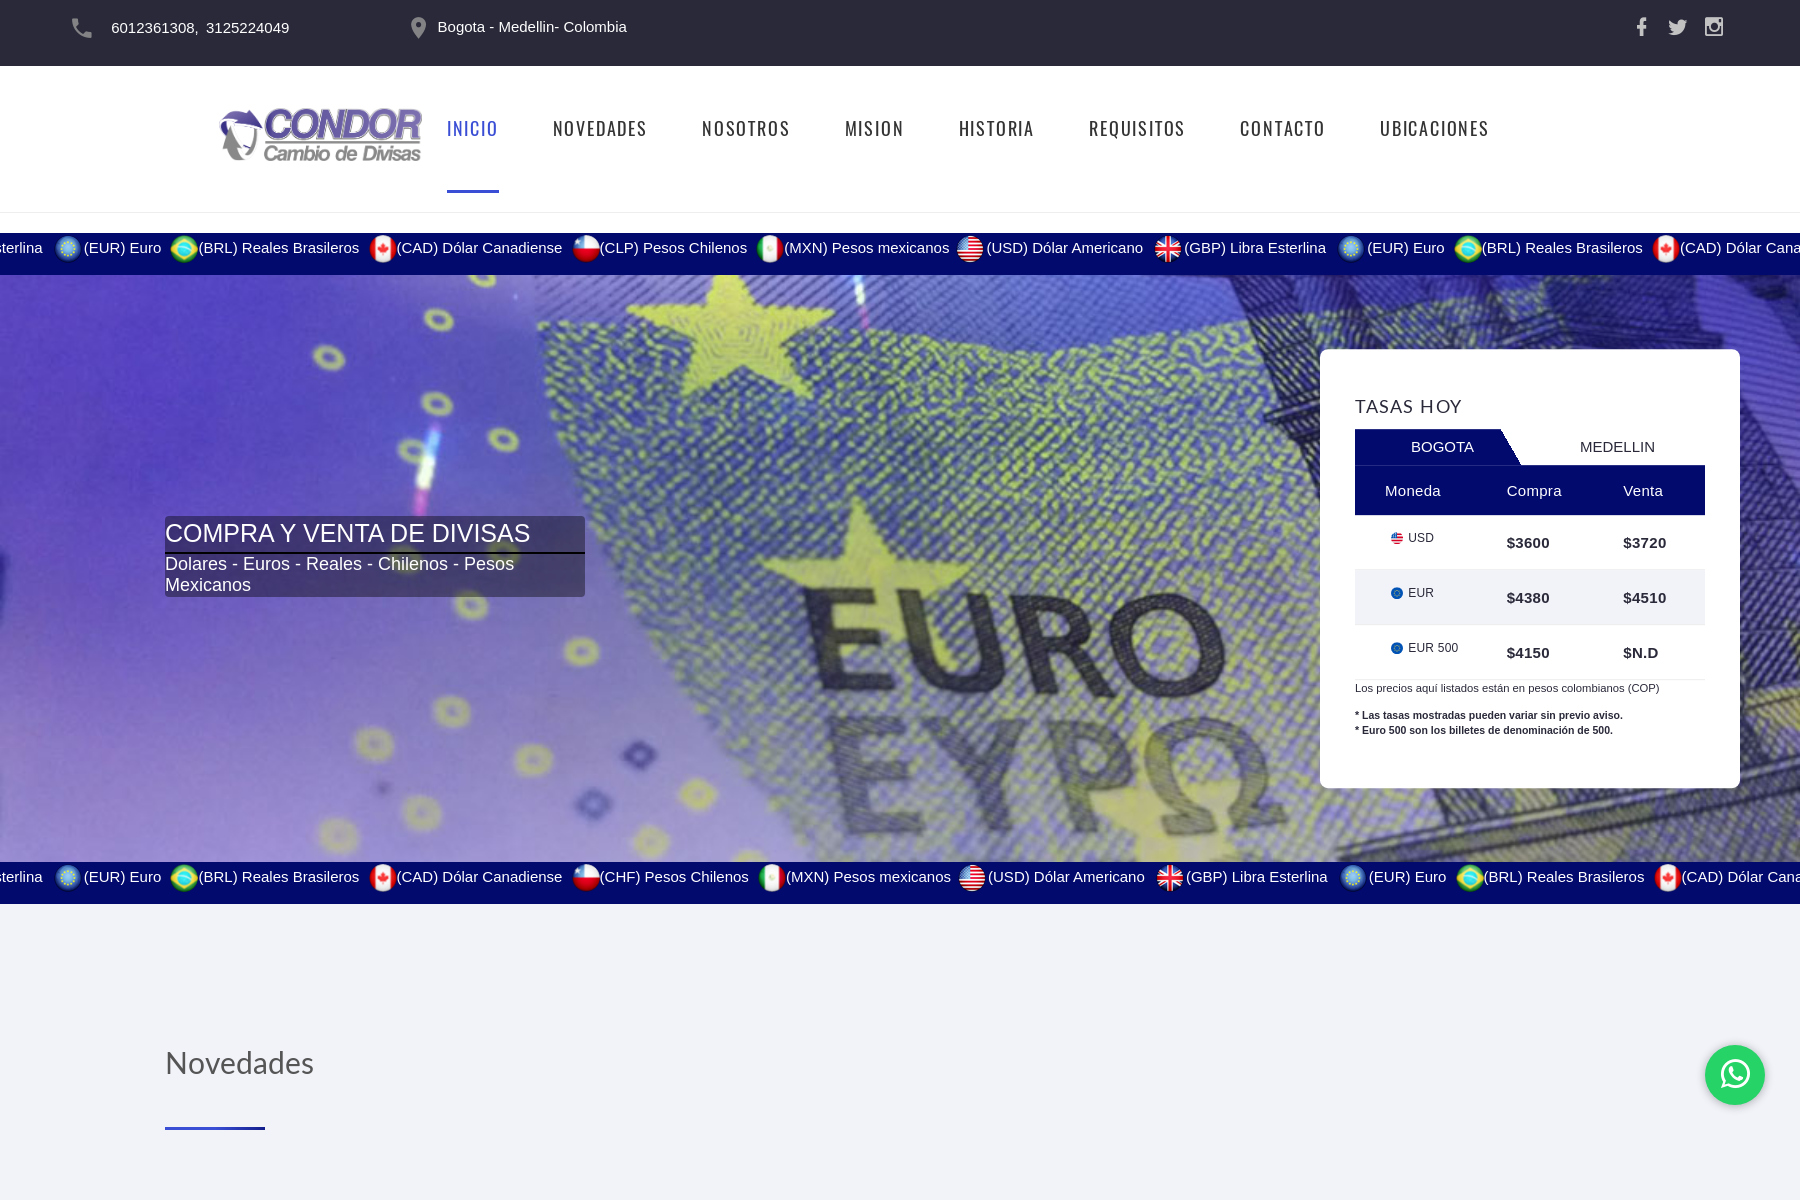
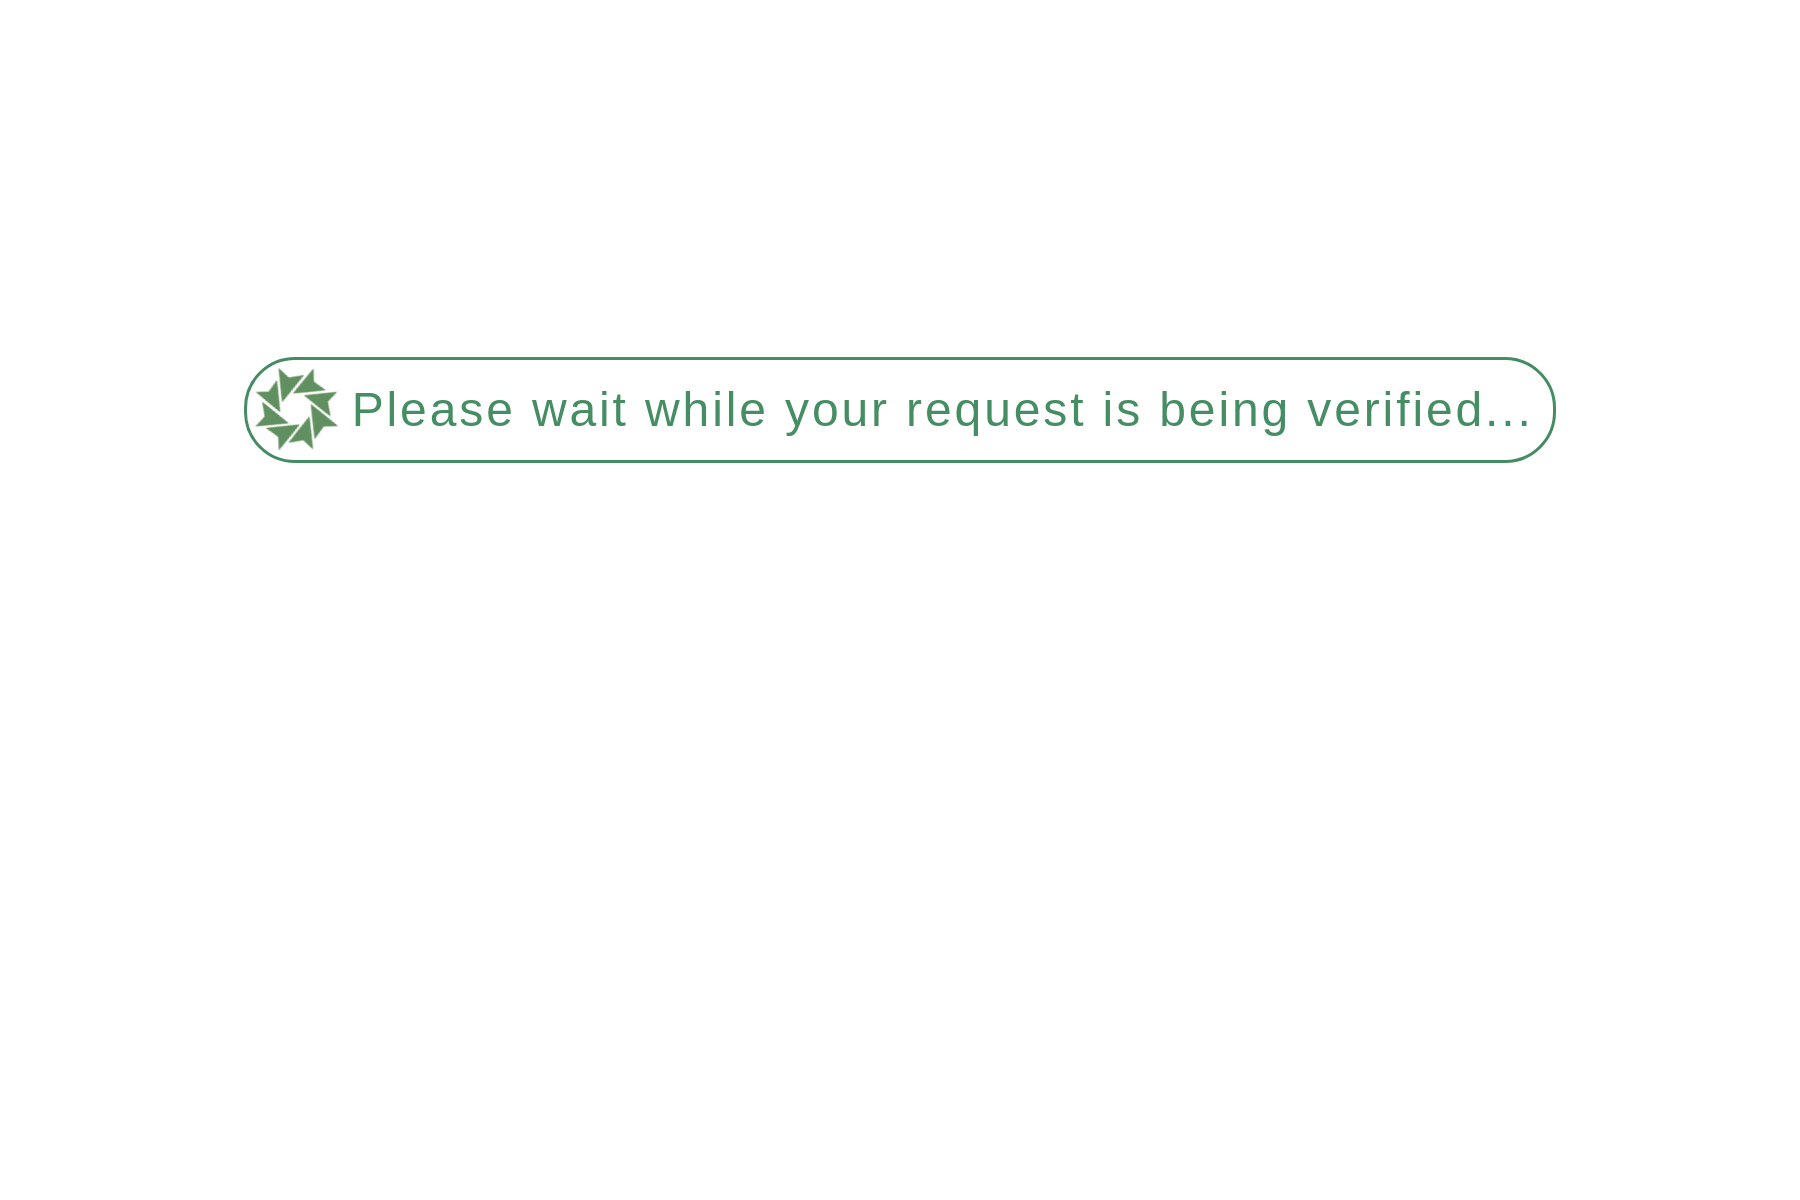
add data

diff --git a/logs/kapital.png.html b/logs/kapital.png.html
@@ -25,7 +25,7 @@
 				<div class="elementor-element elementor-element-fc0e479 elementor-nav-menu--stretch elementor-hidden-tablet elementor-hidden-mobile elementor-nav-menu--dropdown-tablet elementor-nav-menu__text-align-aside elementor-nav-menu--toggle elementor-nav-menu--burger elementor-widget elementor-widget-nav-menu" data-id="fc0e479" data-element_type="widget" data-e-type="widget" data-settings="{&quot;full_width&quot;:&quot;stretch&quot;,&quot;layout&quot;:&quot;horizontal&quot;,&quot;submenu_icon&quot;:{&quot;value&quot;:&quot;<svg aria-hidden=\&quot;true\&quot; class=\&quot;e-font-icon-svg e-fas-caret-down\&quot; viewBox=\&quot;0 0 320 512\&quot; xmlns=\&quot;http:\/\/www.w3.org\/2000\/svg\&quot;><path d=\&quot;M31.3 192h257.3c17.8 0 26.7 21.5 14.1 34.1L174.1 354.8c-7.8 7.8-20.5 7.8-28.3 0L17.2 226.1C4.6 213.5 13.5 192 31.3 192z\&quot;><\/path><\/svg>&quot;,&quot;library&quot;:&quot;fa-solid&quot;},&quot;toggle&quot;:&quot;burger&quot;}" data-widget_type="nav-menu.default">
 				<div class="elementor-widget-container">
 								<nav aria-label="Menú" class="elementor-nav-menu--main elementor-nav-menu__container elementor-nav-menu--layout-horizontal e--pointer-underline e--animation-fade">
-				<ul id="menu-1-fc0e479" class="elementor-nav-menu" data-smartmenus-id="17740612112468015"><li class="menu-item menu-item-type-post_type menu-item-object-page menu-item-home current-menu-item page_item page-item-533 current_page_item menu-item-786"><a href="https://cambioskapital.com/" aria-current="page" class="elementor-item elementor-item-active">Inicio</a></li>
+				<ul id="menu-1-fc0e479" class="elementor-nav-menu" data-smartmenus-id="17740685058209133"><li class="menu-item menu-item-type-post_type menu-item-object-page menu-item-home current-menu-item page_item page-item-533 current_page_item menu-item-786"><a href="https://cambioskapital.com/" aria-current="page" class="elementor-item elementor-item-active">Inicio</a></li>
 <li class="menu-item menu-item-type-post_type menu-item-object-page menu-item-787"><a href="https://cambioskapital.com/requisitos-y-normatividad/" class="elementor-item">Requisitos</a></li>
 <li class="menu-item menu-item-type-post_type menu-item-object-page menu-item-47"><a href="https://cambioskapital.com/sobre-nosotros/" class="elementor-item">Sobre nosotros</a></li>
 <li class="menu-item menu-item-type-post_type menu-item-object-page menu-item-46"><a href="https://cambioskapital.com/blog/" class="elementor-item">Blog</a></li>
@@ -33,7 +33,7 @@
 					<div class="elementor-menu-toggle" role="button" tabindex="0" aria-label="Alternar menú" aria-expanded="false" style="">
 			<svg aria-hidden="true" role="presentation" class="elementor-menu-toggle__icon--open e-font-icon-svg e-eicon-menu-bar" viewBox="0 0 1000 1000" xmlns="http://www.w3.org/2000/svg"><path d="M104 333H896C929 333 958 304 958 271S929 208 896 208H104C71 208 42 237 42 271S71 333 104 333ZM104 583H896C929 583 958 554 958 521S929 458 896 458H104C71 458 42 487 42 521S71 583 104 583ZM104 833H896C929 833 958 804 958 771S929 708 896 708H104C71 708 42 737 42 771S71 833 104 833Z"></path></svg><svg aria-hidden="true" role="presentation" class="elementor-menu-toggle__icon--close e-font-icon-svg e-eicon-close" viewBox="0 0 1000 1000" xmlns="http://www.w3.org/2000/svg"><path d="M742 167L500 408 258 167C246 154 233 150 217 150 196 150 179 158 167 167 154 179 150 196 150 212 150 229 154 242 171 254L408 500 167 742C138 771 138 800 167 829 196 858 225 858 254 829L496 587 738 829C750 842 767 846 783 846 800 846 817 842 829 829 842 817 846 804 846 783 846 767 842 750 829 737L588 500 833 258C863 229 863 200 833 171 804 137 775 137 742 167Z"></path></svg>		</div>
 					<nav class="elementor-nav-menu--dropdown elementor-nav-menu__container" aria-hidden="true" style="width: 1800px; left: 0px; top: 44px;">
-				<ul id="menu-2-fc0e479" class="elementor-nav-menu" data-smartmenus-id="17740612112487803"><li class="menu-item menu-item-type-post_type menu-item-object-page menu-item-home current-menu-item page_item page-item-533 current_page_item menu-item-786"><a href="https://cambioskapital.com/" aria-current="page" class="elementor-item elementor-item-active" tabindex="-1">Inicio</a></li>
+				<ul id="menu-2-fc0e479" class="elementor-nav-menu" data-smartmenus-id="17740685058228389"><li class="menu-item menu-item-type-post_type menu-item-object-page menu-item-home current-menu-item page_item page-item-533 current_page_item menu-item-786"><a href="https://cambioskapital.com/" aria-current="page" class="elementor-item elementor-item-active" tabindex="-1">Inicio</a></li>
 <li class="menu-item menu-item-type-post_type menu-item-object-page menu-item-787"><a href="https://cambioskapital.com/requisitos-y-normatividad/" class="elementor-item" tabindex="-1">Requisitos</a></li>
 <li class="menu-item menu-item-type-post_type menu-item-object-page menu-item-47"><a href="https://cambioskapital.com/sobre-nosotros/" class="elementor-item" tabindex="-1">Sobre nosotros</a></li>
 <li class="menu-item menu-item-type-post_type menu-item-object-page menu-item-46"><a href="https://cambioskapital.com/blog/" class="elementor-item" tabindex="-1">Blog</a></li>
@@ -125,7 +125,7 @@
 				<div class="elementor-element elementor-element-bec314a e-flex e-con-boxed e-con e-parent e-lazyloaded" data-id="bec314a" data-element_type="container" data-e-type="container" data-settings="{&quot;background_background&quot;:&quot;video&quot;,&quot;background_video_link&quot;:&quot;https:\/\/www.youtube.com\/watch?v=T0p_KkL8Juo&quot;,&quot;jet_parallax_layout_list&quot;:[],&quot;background_play_on_mobile&quot;:&quot;yes&quot;}">
 					<div class="e-con-inner">
 		<div class="elementor-background-video-container elementor-loading elementor-invisible">
-							<iframe class="elementor-background-video-embed" role="presentation" frameborder="0" allowfullscreen="" allow="accelerometer; autoplay; clipboard-write; encrypted-media; gyroscope; picture-in-picture; web-share" referrerpolicy="strict-origin-when-cross-origin" title="Cambios Kapital" width="640" height="360" src="https://www.youtube.com/embed/T0p_KkL8Juo?controls=0&amp;rel=0&amp;playsinline=1&amp;cc_load_policy=0&amp;enablejsapi=1&amp;origin=https%3A%2F%2Fcambioskapital.com&amp;widgetid=1&amp;forigin=https%3A%2F%2Fcambioskapital.com%2F&amp;aoriginsup=1&amp;vf=6" id="widget2" data-gtm-yt-inspected-9="true" style="width: 3633.78px; height: 2044px;"></iframe>
+							<iframe class="elementor-background-video-embed" role="presentation" frameborder="0" allowfullscreen="" allow="accelerometer; autoplay; clipboard-write; encrypted-media; gyroscope; picture-in-picture; web-share" referrerpolicy="strict-origin-when-cross-origin" title="Cambios Kapital" width="640" height="360" src="https://www.youtube.com/embed/T0p_KkL8Juo?controls=0&amp;rel=0&amp;playsinline=1&amp;cc_load_policy=0&amp;enablejsapi=1&amp;origin=https%3A%2F%2Fcambioskapital.com&amp;widgetid=1&amp;forigin=https%3A%2F%2Fcambioskapital.com%2F&amp;aoriginsup=1&amp;vf=6" id="widget2" data-gtm-yt-inspected-10="true" style="width: 3633.78px; height: 2044px;"></iframe>
 						</div><div class="elementor-element elementor-element-66f5614 e-con-full e-flex e-con e-child" data-id="66f5614" data-element_type="container" data-e-type="container" data-settings="{&quot;jet_parallax_layout_list&quot;:[]}">
 				<div class="elementor-element elementor-element-b3e564d elementor-widget elementor-widget-heading" data-id="b3e564d" data-element_type="widget" data-e-type="widget" data-widget_type="heading.default">
 				<div class="elementor-widget-container">
@@ -763,7 +763,7 @@ de divisas</h3>				</div>
 				<div class="elementor-element elementor-element-ad5b9ce elementor-widget__width-initial elementor-widget-tablet__width-inherit elementor-widget elementor-widget-google_maps" data-id="ad5b9ce" data-element_type="widget" data-e-type="widget" data-widget_type="google_maps.default">
 				<div class="elementor-widget-container">
 							<div class="elementor-custom-embed">
-			<iframe loading="lazy" src="https://maps.google.com/maps?q=Cra%2040%20%23%2022a%2095%20bogot%C3%A1&amp;t=m&amp;z=14&amp;output=embed&amp;iwloc=near" title="Cra 40 # 22a 95 bogotá" aria-label="Cra 40 # 22a 95 bogotá" data-gtm-yt-inspected-9="true"></iframe>
+			<iframe loading="lazy" src="https://maps.google.com/maps?q=Cra%2040%20%23%2022a%2095%20bogot%C3%A1&amp;t=m&amp;z=14&amp;output=embed&amp;iwloc=near" title="Cra 40 # 22a 95 bogotá" aria-label="Cra 40 # 22a 95 bogotá" data-gtm-yt-inspected-10="true"></iframe>
 		</div>
 						</div>
 				</div>
@@ -876,7 +876,7 @@ de divisas</h3>				</div>
 				<div class="elementor-element elementor-element-24921a5 elementor-widget__width-initial elementor-widget-tablet__width-inherit elementor-widget elementor-widget-google_maps" data-id="24921a5" data-element_type="widget" data-e-type="widget" data-widget_type="google_maps.default">
 				<div class="elementor-widget-container">
 							<div class="elementor-custom-embed">
-			<iframe loading="lazy" src="https://maps.google.com/maps?q=Cra%2060%20%23%2024-09%20bogot%C3%A1&amp;t=m&amp;z=14&amp;output=embed&amp;iwloc=near" title="Cra 60 # 24-09 bogotá" aria-label="Cra 60 # 24-09 bogotá" data-gtm-yt-inspected-9="true"></iframe>
+			<iframe loading="lazy" src="https://maps.google.com/maps?q=Cra%2060%20%23%2024-09%20bogot%C3%A1&amp;t=m&amp;z=14&amp;output=embed&amp;iwloc=near" title="Cra 60 # 24-09 bogotá" aria-label="Cra 60 # 24-09 bogotá" data-gtm-yt-inspected-10="true"></iframe>
 		</div>
 						</div>
 				</div>
@@ -979,7 +979,7 @@ de divisas</h3>				</div>
 				<div class="elementor-element elementor-element-a286ce0 elementor-widget__width-initial elementor-widget-tablet__width-inherit elementor-widget elementor-widget-google_maps" data-id="a286ce0" data-element_type="widget" data-e-type="widget" data-widget_type="google_maps.default">
 				<div class="elementor-widget-container">
 							<div class="elementor-custom-embed">
-			<iframe loading="lazy" src="https://maps.google.com/maps?q=CRA%2086%20%23%2055A%20-75%20bogot%C3%A1&amp;t=m&amp;z=14&amp;output=embed&amp;iwloc=near" title="CRA 86 # 55A -75 bogotá" aria-label="CRA 86 # 55A -75 bogotá" data-gtm-yt-inspected-9="true"></iframe>
+			<iframe loading="lazy" src="https://maps.google.com/maps?q=CRA%2086%20%23%2055A%20-75%20bogot%C3%A1&amp;t=m&amp;z=14&amp;output=embed&amp;iwloc=near" title="CRA 86 # 55A -75 bogotá" aria-label="CRA 86 # 55A -75 bogotá" data-gtm-yt-inspected-10="true"></iframe>
 		</div>
 						</div>
 				</div>
@@ -1082,7 +1082,7 @@ de divisas</h3>				</div>
 				<div class="elementor-element elementor-element-e345eca elementor-widget__width-initial elementor-widget-tablet__width-inherit elementor-widget elementor-widget-google_maps" data-id="e345eca" data-element_type="widget" data-e-type="widget" data-widget_type="google_maps.default">
 				<div class="elementor-widget-container">
 							<div class="elementor-custom-embed">
-			<iframe loading="lazy" src="https://maps.google.com/maps?q=CC%20north%20point%20mall&amp;t=m&amp;z=14&amp;output=embed&amp;iwloc=near" title="CC north point mall" aria-label="CC north point mall" data-gtm-yt-inspected-9="true"></iframe>
+			<iframe loading="lazy" src="https://maps.google.com/maps?q=CC%20north%20point%20mall&amp;t=m&amp;z=14&amp;output=embed&amp;iwloc=near" title="CC north point mall" aria-label="CC north point mall" data-gtm-yt-inspected-10="true"></iframe>
 		</div>
 						</div>
 				</div>
@@ -1185,7 +1185,7 @@ de divisas</h3>				</div>
 				<div class="elementor-element elementor-element-63c4412 elementor-widget__width-initial elementor-widget-tablet__width-inherit elementor-widget elementor-widget-google_maps" data-id="63c4412" data-element_type="widget" data-e-type="widget" data-widget_type="google_maps.default">
 				<div class="elementor-widget-container">
 							<div class="elementor-custom-embed">
-			<iframe loading="lazy" src="https://maps.google.com/maps?q=centro%20comercial%20calle%20real&amp;t=m&amp;z=14&amp;output=embed&amp;iwloc=near" title="centro comercial calle real" aria-label="centro comercial calle real" data-gtm-yt-inspected-9="true"></iframe>
+			<iframe loading="lazy" src="https://maps.google.com/maps?q=centro%20comercial%20calle%20real&amp;t=m&amp;z=14&amp;output=embed&amp;iwloc=near" title="centro comercial calle real" aria-label="centro comercial calle real" data-gtm-yt-inspected-10="true"></iframe>
 		</div>
 						</div>
 				</div>
@@ -1278,7 +1278,7 @@ de divisas</h3>				</div>
 				<div class="elementor-element elementor-element-7d1c3da elementor-widget__width-initial elementor-widget-tablet__width-inherit elementor-widget elementor-widget-google_maps" data-id="7d1c3da" data-element_type="widget" data-e-type="widget" data-widget_type="google_maps.default">
 				<div class="elementor-widget-container">
 							<div class="elementor-custom-embed">
-			<iframe loading="lazy" src="https://maps.google.com/maps?q=entro%20Comercial%20MALL%20PLAZA%20bogot%C3%A1&amp;t=m&amp;z=14&amp;output=embed&amp;iwloc=near" title="entro Comercial MALL PLAZA bogotá" aria-label="entro Comercial MALL PLAZA bogotá" data-gtm-yt-inspected-9="true"></iframe>
+			<iframe loading="lazy" src="https://maps.google.com/maps?q=entro%20Comercial%20MALL%20PLAZA%20bogot%C3%A1&amp;t=m&amp;z=14&amp;output=embed&amp;iwloc=near" title="entro Comercial MALL PLAZA bogotá" aria-label="entro Comercial MALL PLAZA bogotá" data-gtm-yt-inspected-10="true"></iframe>
 		</div>
 						</div>
 				</div>
@@ -1376,7 +1376,7 @@ de divisas</h3>				</div>
 				<div class="elementor-element elementor-element-9d0f411 elementor-widget__width-initial elementor-widget-tablet__width-inherit elementor-widget elementor-widget-google_maps" data-id="9d0f411" data-element_type="widget" data-e-type="widget" data-widget_type="google_maps.default">
 				<div class="elementor-widget-container">
 							<div class="elementor-custom-embed">
-			<iframe loading="lazy" src="https://maps.google.com/maps?q=centro%20comercial%20diver%20plaza&amp;t=m&amp;z=14&amp;output=embed&amp;iwloc=near" title="centro comercial diver plaza" aria-label="centro comercial diver plaza" data-gtm-yt-inspected-9="true"></iframe>
+			<iframe loading="lazy" src="https://maps.google.com/maps?q=centro%20comercial%20diver%20plaza&amp;t=m&amp;z=14&amp;output=embed&amp;iwloc=near" title="centro comercial diver plaza" aria-label="centro comercial diver plaza" data-gtm-yt-inspected-10="true"></iframe>
 		</div>
 						</div>
 				</div>
@@ -1474,7 +1474,7 @@ de divisas</h3>				</div>
 				<div class="elementor-element elementor-element-a6d1c53 elementor-widget__width-initial elementor-widget-tablet__width-inherit elementor-widget elementor-widget-google_maps" data-id="a6d1c53" data-element_type="widget" data-e-type="widget" data-widget_type="google_maps.default">
 				<div class="elementor-widget-container">
 							<div class="elementor-custom-embed">
-			<iframe loading="lazy" src="https://maps.google.com/maps?q=Calle%20134%20%23%2055%2030%20bogot%C3%A1&amp;t=m&amp;z=14&amp;output=embed&amp;iwloc=near" title="Calle 134 # 55 30 bogotá" aria-label="Calle 134 # 55 30 bogotá" data-gtm-yt-inspected-9="true"></iframe>
+			<iframe loading="lazy" src="https://maps.google.com/maps?q=Calle%20134%20%23%2055%2030%20bogot%C3%A1&amp;t=m&amp;z=14&amp;output=embed&amp;iwloc=near" title="Calle 134 # 55 30 bogotá" aria-label="Calle 134 # 55 30 bogotá" data-gtm-yt-inspected-10="true"></iframe>
 		</div>
 						</div>
 				</div>
@@ -1574,7 +1574,7 @@ Domingos y festivos de 10:00 a.m. a 6:00 p.m.								</div>
 				<div class="elementor-element elementor-element-3edcecd elementor-widget__width-initial elementor-widget-tablet__width-inherit elementor-widget elementor-widget-google_maps" data-id="3edcecd" data-element_type="widget" data-e-type="widget" data-widget_type="google_maps.default">
 				<div class="elementor-widget-container">
 							<div class="elementor-custom-embed">
-			<iframe loading="lazy" src="https://maps.google.com/maps?q=Diag%2057c%20sur%20%23%2062%20-%2060%20bogot%C3%A1&amp;t=m&amp;z=14&amp;output=embed&amp;iwloc=near" title="Diag 57c sur # 62 - 60 bogotá" aria-label="Diag 57c sur # 62 - 60 bogotá" data-gtm-yt-inspected-9="true"></iframe>
+			<iframe loading="lazy" src="https://maps.google.com/maps?q=Diag%2057c%20sur%20%23%2062%20-%2060%20bogot%C3%A1&amp;t=m&amp;z=14&amp;output=embed&amp;iwloc=near" title="Diag 57c sur # 62 - 60 bogotá" aria-label="Diag 57c sur # 62 - 60 bogotá" data-gtm-yt-inspected-10="true"></iframe>
 		</div>
 						</div>
 				</div>
@@ -1672,7 +1672,7 @@ Domingos y festivos de 10:00 a.m. a 6:00 p.m.								</div>
 				<div class="elementor-element elementor-element-3aeb13a elementor-widget__width-initial elementor-widget-tablet__width-inherit elementor-widget elementor-widget-google_maps" data-id="3aeb13a" data-element_type="widget" data-e-type="widget" data-widget_type="google_maps.default">
 				<div class="elementor-widget-container">
 							<div class="elementor-custom-embed">
-			<iframe loading="lazy" src="https://maps.google.com/maps?q=Diag%2057c%20sur%20%23%2062%20-%2060%20bogot%C3%A1&amp;t=m&amp;z=14&amp;output=embed&amp;iwloc=near" title="Diag 57c sur # 62 - 60 bogotá" aria-label="Diag 57c sur # 62 - 60 bogotá" data-gtm-yt-inspected-9="true"></iframe>
+			<iframe loading="lazy" src="https://maps.google.com/maps?q=Diag%2057c%20sur%20%23%2062%20-%2060%20bogot%C3%A1&amp;t=m&amp;z=14&amp;output=embed&amp;iwloc=near" title="Diag 57c sur # 62 - 60 bogotá" aria-label="Diag 57c sur # 62 - 60 bogotá" data-gtm-yt-inspected-10="true"></iframe>
 		</div>
 						</div>
 				</div>
@@ -2099,7 +2099,7 @@ venta de divisas</b></h2>				</div>
 				</div>
 		<div class="elementor-element elementor-element-1b444a7 e-con-full e-flex e-con e-child" data-id="1b444a7" data-element_type="container" data-e-type="container" data-settings="{&quot;background_background&quot;:&quot;video&quot;,&quot;jet_parallax_layout_list&quot;:[],&quot;background_video_link&quot;:&quot;https:\/\/www.youtube.com\/watch?v=R___qabMWw4&quot;,&quot;background_play_on_mobile&quot;:&quot;yes&quot;}">
 		<div class="elementor-background-video-container elementor-loading elementor-invisible">
-							<iframe class="elementor-background-video-embed" role="presentation" frameborder="0" allowfullscreen="" allow="accelerometer; autoplay; clipboard-write; encrypted-media; gyroscope; picture-in-picture; web-share" referrerpolicy="strict-origin-when-cross-origin" title="Background Mundo" width="640" height="360" src="https://www.youtube.com/embed/R___qabMWw4?controls=0&amp;rel=0&amp;playsinline=1&amp;cc_load_policy=0&amp;enablejsapi=1&amp;origin=https%3A%2F%2Fcambioskapital.com&amp;widgetid=3&amp;forigin=https%3A%2F%2Fcambioskapital.com%2F&amp;aoriginsup=1&amp;vf=1" id="widget4" data-gtm-yt-inspected-9="true" style="width: 1600px; height: 900px;"></iframe>
+							<iframe class="elementor-background-video-embed" role="presentation" frameborder="0" allowfullscreen="" allow="accelerometer; autoplay; clipboard-write; encrypted-media; gyroscope; picture-in-picture; web-share" referrerpolicy="strict-origin-when-cross-origin" title="Background Mundo" width="640" height="360" src="https://www.youtube.com/embed/R___qabMWw4?controls=0&amp;rel=0&amp;playsinline=1&amp;cc_load_policy=0&amp;enablejsapi=1&amp;origin=https%3A%2F%2Fcambioskapital.com&amp;widgetid=3&amp;forigin=https%3A%2F%2Fcambioskapital.com%2F&amp;aoriginsup=1&amp;vf=1" id="widget4" data-gtm-yt-inspected-10="true" style="width: 1600px; height: 900px;"></iframe>
 						</div><div class="elementor-element elementor-element-106ce84 e-con-full animated-slow e-flex elementor-invisible e-con e-child" data-id="106ce84" data-element_type="container" data-e-type="container" data-settings="{&quot;jet_parallax_layout_list&quot;:[],&quot;animation&quot;:&quot;fadeInLeft&quot;,&quot;animation_mobile&quot;:&quot;none&quot;}">
 				<div class="elementor-element elementor-element-8698dd7 elementor-widget__width-inherit elementor-widget-mobile__width-inherit elementor-widget elementor-widget-heading" data-id="8698dd7" data-element_type="widget" data-e-type="widget" data-widget_type="heading.default">
 				<div class="elementor-widget-container">
@@ -2158,7 +2158,7 @@ día a día en nosotros.</h2>				</div>
 								<div class="elementor-field-type-text">
 					<input size="1" type="text" name="form_fields[field_c1b0b0d]" id="form-field-field_c1b0b0d" class="elementor-field elementor-size-sm " style="display:none !important;">				</div>
 								<div class="elementor-field-type-recaptcha_v3 elementor-field-group elementor-column elementor-field-group-field_1362cad elementor-col-100 recaptcha_v3-bottomright">
-					<div class="elementor-field" id="form-field-field_1362cad"><div class="elementor-g-recaptcha" data-sitekey="6LdWtBwqAAAAAOphueYVlKWT5KFmbitKzEbNypcT" data-type="v3" data-action="Form" data-badge="bottomright" data-size="invisible"><div class="grecaptcha-badge" data-style="bottomright" style="width: 256px; height: 60px; display: block; transition: right 0.3s ease 0s; position: fixed; bottom: 14px; right: -186px; box-shadow: gray 0px 0px 5px; border-radius: 2px; overflow: hidden;"><div class="grecaptcha-logo"><iframe title="reCAPTCHA" width="256" height="60" role="presentation" name="a-tp9eel16iadc" frameborder="0" scrolling="no" sandbox="allow-forms allow-popups allow-same-origin allow-scripts allow-top-navigation allow-modals allow-popups-to-escape-sandbox" src="https://www.google.com/recaptcha/api2/anchor?ar=1&amp;k=6LdWtBwqAAAAAOphueYVlKWT5KFmbitKzEbNypcT&amp;co=aHR0cHM6Ly9jYW1iaW9za2FwaXRhbC5jb206NDQz&amp;hl=en&amp;type=v3&amp;v=qm3PSRIx10pekcnS9DjGnjPW&amp;size=invisible&amp;badge=bottomright&amp;sa=Form&amp;anchor-ms=20000&amp;execute-ms=30000&amp;cb=44cfdr7exe2t" data-gtm-yt-inspected-9="true"></iframe></div><div class="grecaptcha-error"></div><textarea id="g-recaptcha-response" name="g-recaptcha-response" class="g-recaptcha-response" style="width: 250px; height: 40px; border: 1px solid rgb(193, 193, 193); margin: 10px 25px; padding: 0px; resize: none; display: none;"></textarea></div><iframe data-gtm-yt-inspected-9="true" style="display: none;"></iframe></div></div>				</div>
+					<div class="elementor-field" id="form-field-field_1362cad"><div class="elementor-g-recaptcha" data-sitekey="6LdWtBwqAAAAAOphueYVlKWT5KFmbitKzEbNypcT" data-type="v3" data-action="Form" data-badge="bottomright" data-size="invisible"><div class="grecaptcha-badge" data-style="bottomright" style="width: 256px; height: 60px; display: block; transition: right 0.3s ease 0s; position: fixed; bottom: 14px; right: -186px; box-shadow: gray 0px 0px 5px; border-radius: 2px; overflow: hidden;"><div class="grecaptcha-logo"><iframe title="reCAPTCHA" width="256" height="60" role="presentation" name="a-og0wmbssla6d" frameborder="0" scrolling="no" sandbox="allow-forms allow-popups allow-same-origin allow-scripts allow-top-navigation allow-modals allow-popups-to-escape-sandbox" src="https://www.google.com/recaptcha/api2/anchor?ar=1&amp;k=6LdWtBwqAAAAAOphueYVlKWT5KFmbitKzEbNypcT&amp;co=aHR0cHM6Ly9jYW1iaW9za2FwaXRhbC5jb206NDQz&amp;hl=en&amp;type=v3&amp;v=qm3PSRIx10pekcnS9DjGnjPW&amp;size=invisible&amp;badge=bottomright&amp;sa=Form&amp;anchor-ms=20000&amp;execute-ms=30000&amp;cb=7cylp3cqeob1" data-gtm-yt-inspected-10="true"></iframe></div><div class="grecaptcha-error"></div><textarea id="g-recaptcha-response" name="g-recaptcha-response" class="g-recaptcha-response" style="width: 250px; height: 40px; border: 1px solid rgb(193, 193, 193); margin: 10px 25px; padding: 0px; resize: none; display: none;"></textarea></div><iframe data-gtm-yt-inspected-10="true" style="display: none;"></iframe></div></div>				</div>
 								<div class="elementor-field-group elementor-column elementor-field-type-submit elementor-col-100 e-form__buttons">
 					<button class="elementor-button elementor-size-sm" type="submit">
 						<span class="elementor-button-content-wrapper">